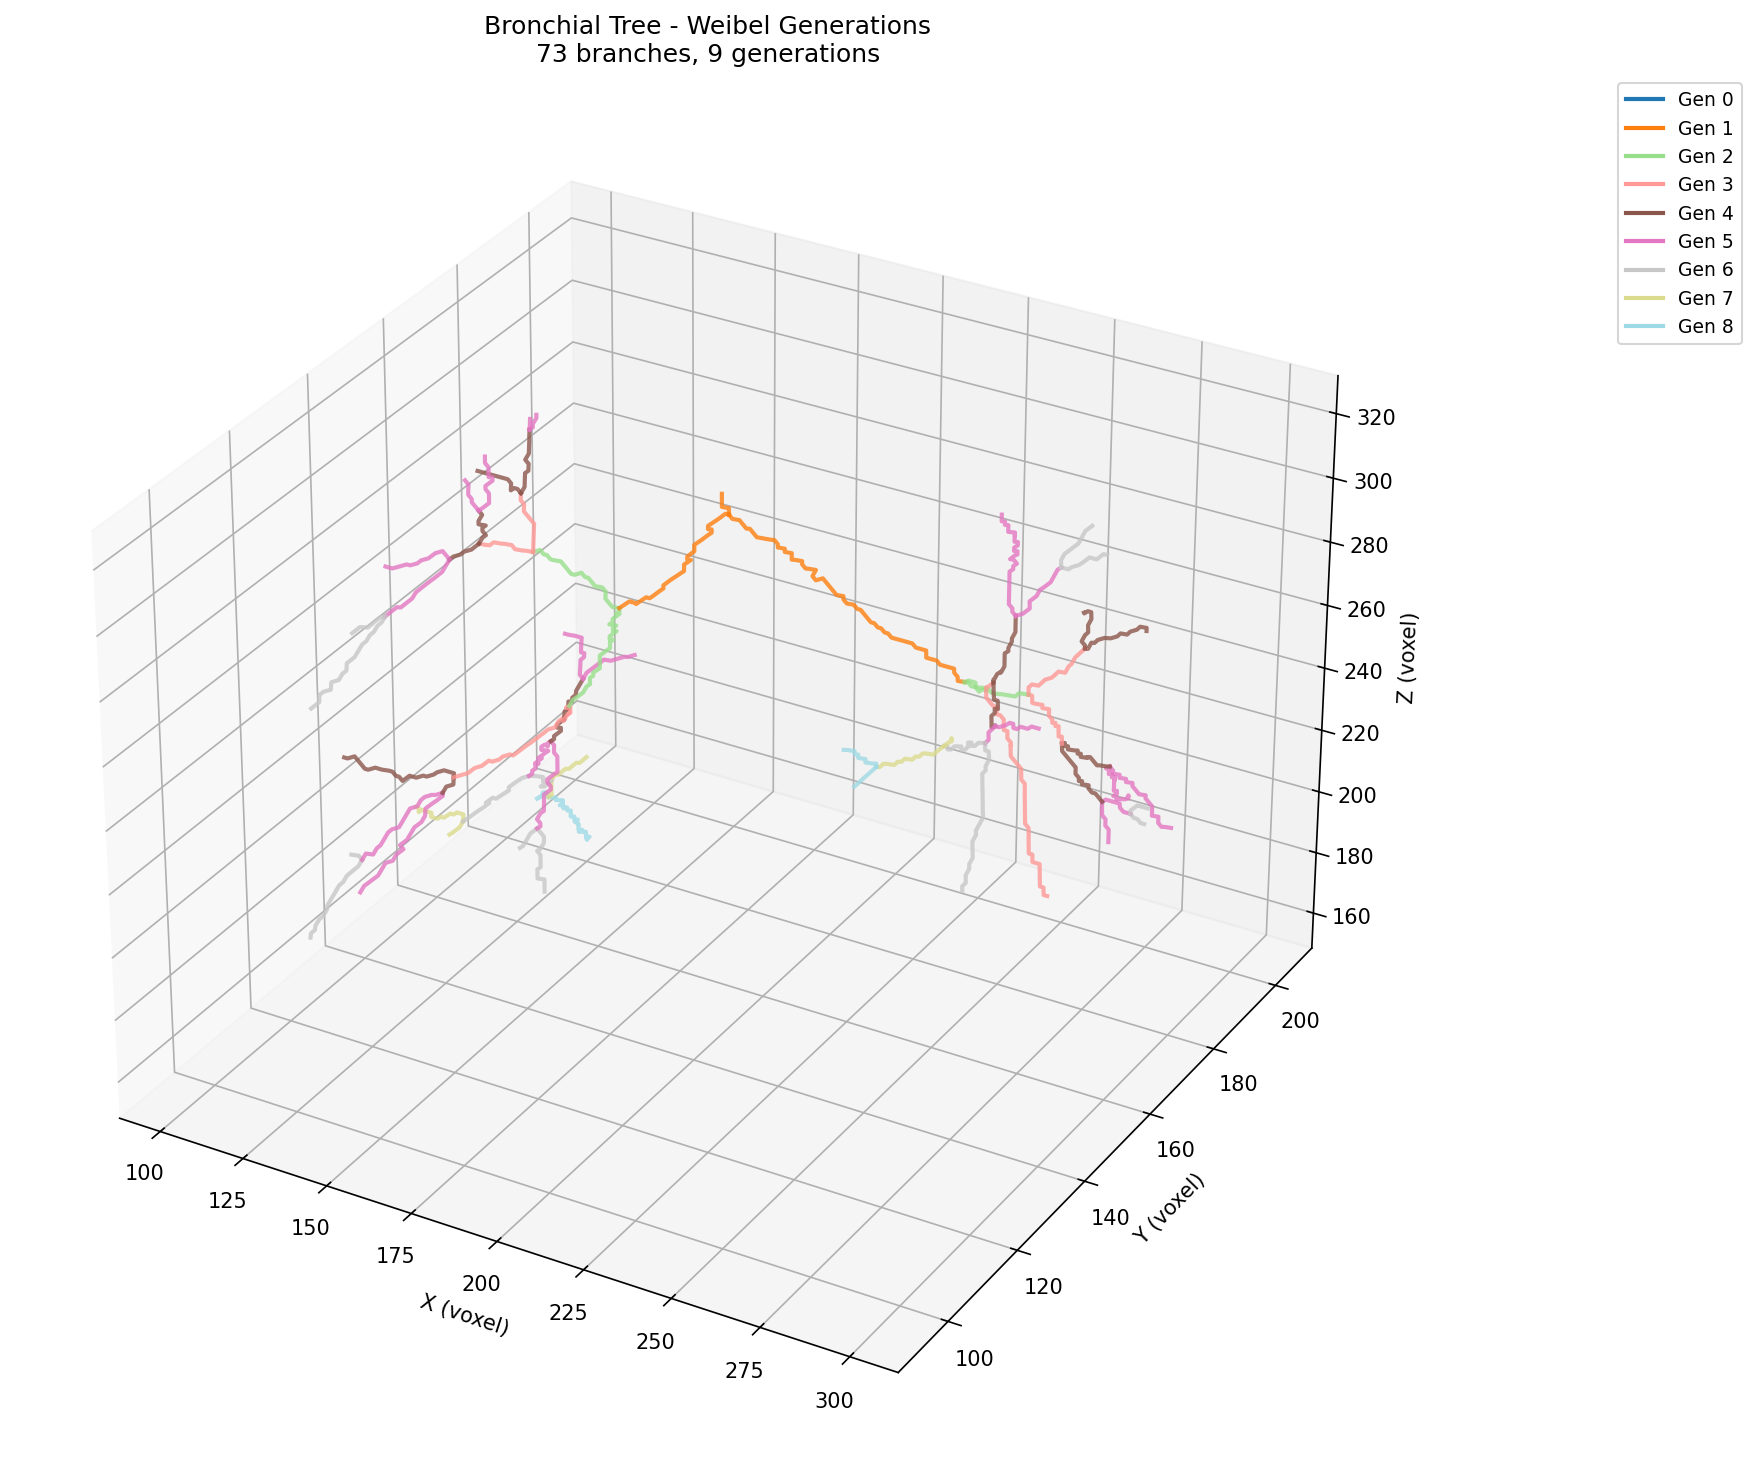
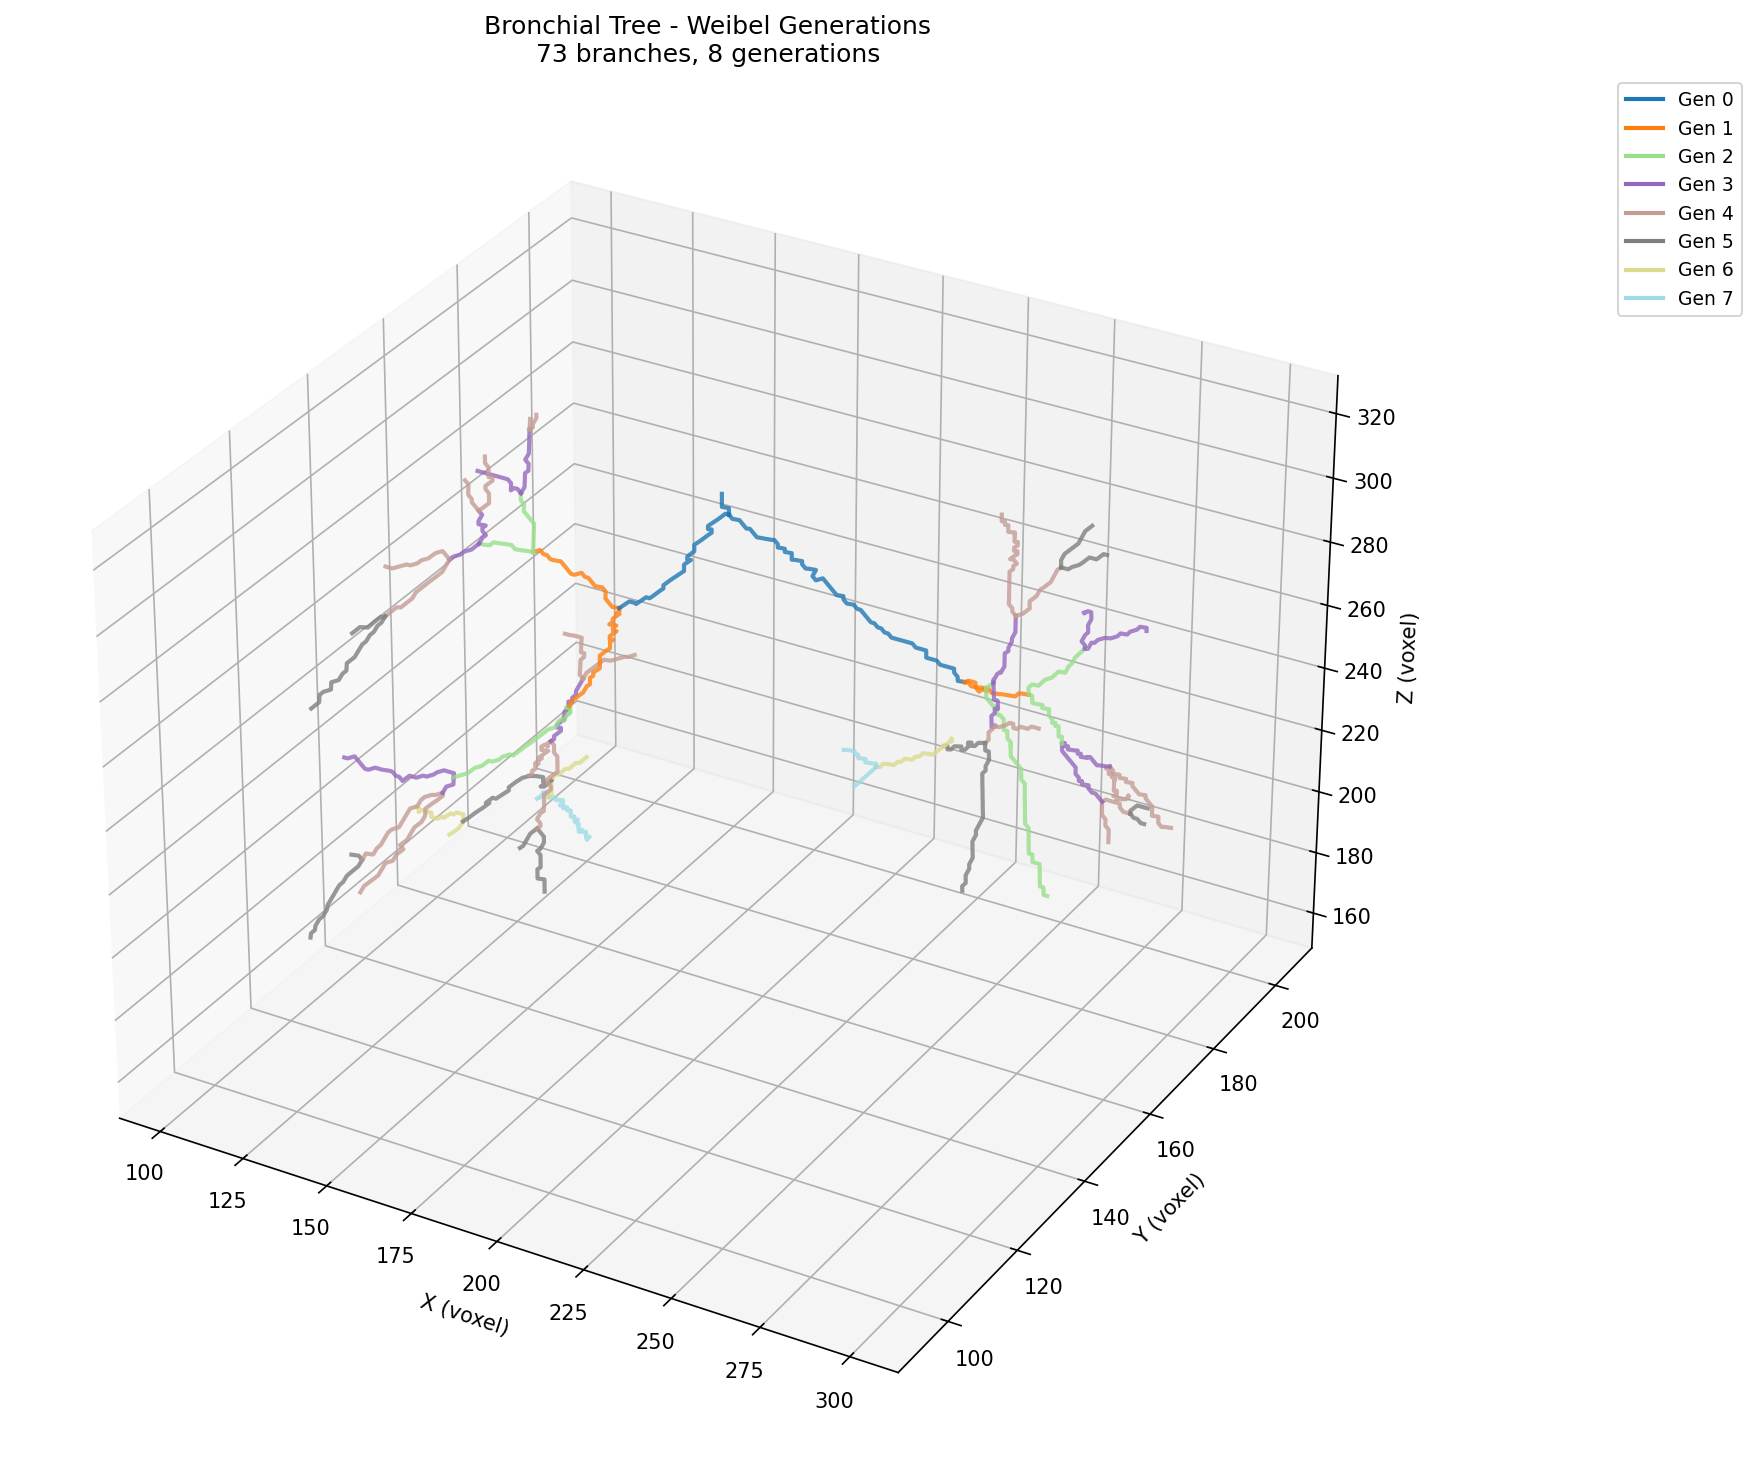
last fix

diff --git a/airway_segmentation/airway_graph.py b/airway_segmentation/airway_graph.py
@@ -432,11 +432,11 @@ class AirwayGraphAnalyzer:
             raise ValueError("Build graph first")
         
         # Initialize generation assignments
-        node_generations = {self.carina_node: 0}
+        node_generations = {self.carina_node: -1}
         branch_generations = {}
         
         # Breadth-first search from carina
-        queue = deque([(self.carina_node, 0)])
+        queue = deque([(self.carina_node, -1)])
         visited = {self.carina_node}
         
         while queue:
@@ -691,8 +691,9 @@ class AirwayGraphAnalyzer:
         for i in range(len(self.weibel_analysis_df) - 1):
             current_gen = self.weibel_analysis_df.iloc[i]
             next_gen = self.weibel_analysis_df.iloc[i + 1]
-            
-            ratio = current_gen['diameter_mean_mm'] / next_gen['diameter_mean_mm']
+            # ERRORE:
+            #ratio = current_gen['diameter_mean_mm'] / next_gen['diameter_mean_mm']
+            ratio = next_gen['diameter_mean_mm'] / current_gen['diameter_mean_mm']
             tapering_ratios.append({
                 'from_generation': int(current_gen['generation']),
                 'to_generation': int(next_gen['generation']),
